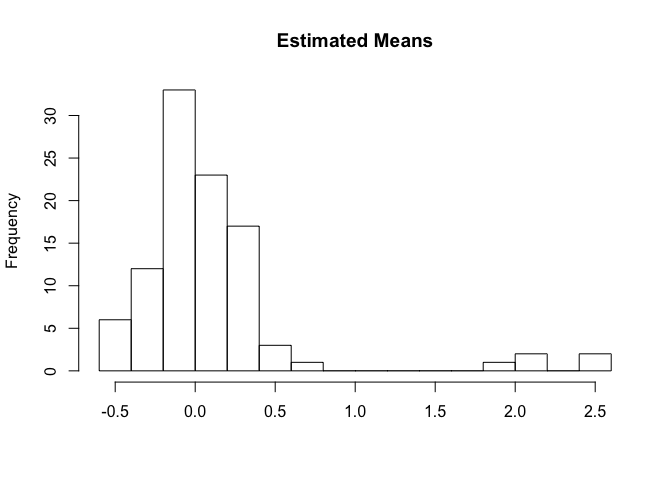
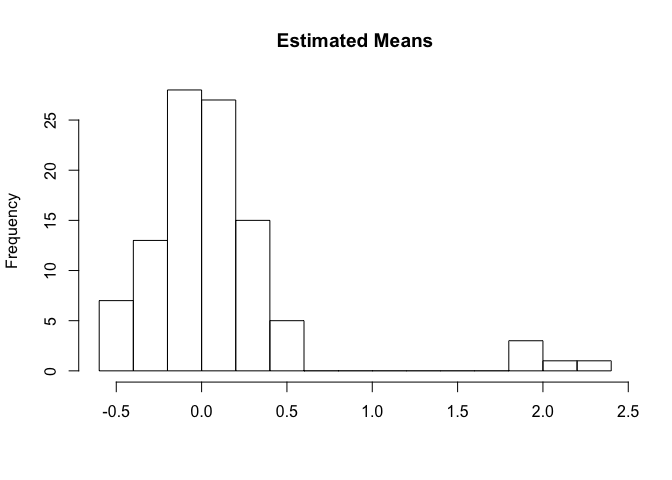
set seed in readme

diff --git a/README.md b/README.md
@@ -46,6 +46,7 @@ Here we generate data from a factor model with 3 factors. We have 20 samples of 
 
 ``` r
 library(farmtest)
+set.seed(100)
 p = 100
 n = 20
 epsilon = matrix(rnorm( p*n, 0,1), nrow = n)
@@ -64,7 +65,7 @@ output = farm.test(X)
 #> FDR to be controlled at: 0.05
 #> alternative hypothesis: two.sided
 #> hypotheses rejected:
-#>  5
+#>  6
 ```
 
 Now we carry out a one-sided test, with the FDR to be controlled at 1%. Then we examine the output
@@ -86,12 +87,12 @@ names(output)
 #> [7] "alldata"
 print(output$rejected)
 #>      index       pvalue pvalue adjusted
-#> [1,]     4 2.227166e-22    1.726104e-20
-#> [2,]     1 1.359204e-17    5.267068e-16
-#> [3,]     2 7.955975e-15    2.055353e-13
-#> [4,]     5 2.576529e-09    4.992169e-08
-#> [5,]     3 1.247069e-05    1.933013e-04
-hist(output$means, 20, main = "Estimated Means", xlab = "")
+#> [1,]     4 4.252076e-22    4.252076e-20
+#> [2,]     2 5.822415e-09    2.911208e-07
+#> [3,]     3 6.759935e-08    2.253312e-06
+#> [4,]     1 2.681754e-06    6.704385e-05
+#> [5,]     5 3.159253e-05    6.318506e-04
+hist(output$means, 10, main = "Estimated Means", xlab = "")
 ```
 
 ![](README-unnamed-chunk-3-1.png)
@@ -102,21 +103,42 @@ Other functions
 The function `farm.scree` makes some informative plots. It is possible to specify the maximum number of factors to be considered and the maximum number of eigenvalues to be calculated in this function. We recommend min(n,p)/2 as a conservative threshold for the number of factors; this also prevents numerical inconsistencies like extremely small eigenvalues which can blow up the eigenvalue ratio test.
 
 ``` r
-farm.scree(X, K.factors = 10, K.scree = 10)
-#> Warning in farm.scree(X, K.factors = 10, K.scree = 10): Number of factors
-#> supplied is >= min(n,p)/2. May cause numerical inconsistencies
+farm.scree(X, K.factors = 15, K.scree = 10)
+#> Warning in farm.scree(X, K.factors = 15, K.scree = 10): Number of factors
+#> supplied is > min(n,p)/2. May cause numerical inconsistencies
 ```
 
 ![](README-unnamed-chunk-4-1.png)![](README-unnamed-chunk-4-2.png)
 
-We see a warning telling us that it is not a good idea to calcualate 10 eigenvalues from a dataset that has only 10 samples.
+    #> $eigenvalues
+    #>  [1] 6.50238024 4.87638067 3.64276647 1.06956254 0.57037119 0.53553838
+    #>  [7] 0.42046122 0.39845125 0.30379338 0.29469998 0.22634805 0.19909889
+    #> [13] 0.18701784 0.15710758 0.14715761 0.12800982 0.10881258 0.08994920
+    #> [19] 0.07382755 0.06826555
+    #> 
+    #> $proportions
+    #>  [1] 0.325119012 0.243819034 0.182138324 0.053478127 0.028518559
+    #>  [6] 0.026776919 0.021023061 0.019922562 0.015189669 0.014734999
+    #> [11] 0.011317402 0.009954945 0.009350892 0.007855379 0.007357881
+    #> [16] 0.006400491 0.005440629 0.004497460 0.003691378 0.003413278
+    #> 
+    #> $eigenvalue.ratios
+    #>  [1] 1.333444 1.338648 3.405847 1.875204 1.065043 1.273693 1.055239
+    #>  [8] 1.311586 1.030856 1.301977 1.136862 1.064598 1.190381 1.067614
+    #> [15] 1.149581
+    #> 
+    #> $nfactors
+    #> [1] 3
+
+We see a warning telling us that it is not a good idea to calculate 15 eigenvalues from a dataset that has only 20 samples.
 
 Let us generate data from a Gaussain distribution with mean 0. Suppose we perform a simple `t.test` in R and need to adjust the output p-values for multiple testing. The function `farm.FDR` lets us carry out multiple comparison adjustment and outputs rejected hypotheses. We see that there are no rejections, as expected from a zero-mean Gaussian distribution.
 
 ``` r
-Y = matrix(rnorm(1000, 0, 1),100)
-pvalues = apply(Y, 1, function(x) t.test(x)$p.value)
-output = farm.FDR(pvalues)
+set.seed(100)
+Y = matrix(rnorm(1000, 0, 1),10)
+pval = apply(Y, 1, function(x) t.test(x)$p.value)
+output = farm.FDR(pval)
 output$rejected
 #> [1] "no hypotheses rejected"
 ```
@@ -130,4 +152,4 @@ Notes
 
 3.  The farm.FDR function uses code from the [`pi0est`](http://bioconductor.org/packages/release/bioc/html/qvalue.html) function in the [`qvalue`](https://www.rdocumentation.org/packages/qvalue/versions/2.4.2/topics/pi0est) package (Storey 2015) to estimate the number of true null hypotheses, and inherits all the options from `pi0est`.
 
-Storey, JD. 2015. “Qvalue: Q-Value Estimation for False Discovery Rate Control.” *R Package Version 2.8.0*. <http://github.com/jdstorey/qvalue>.
+Storey, JD. 2015. “Qvalue: Q-Value Estimation for False Discovery Rate Control.” *R Package Version 2.8.0*. <https://github.com/jdstorey/qvalue>.
